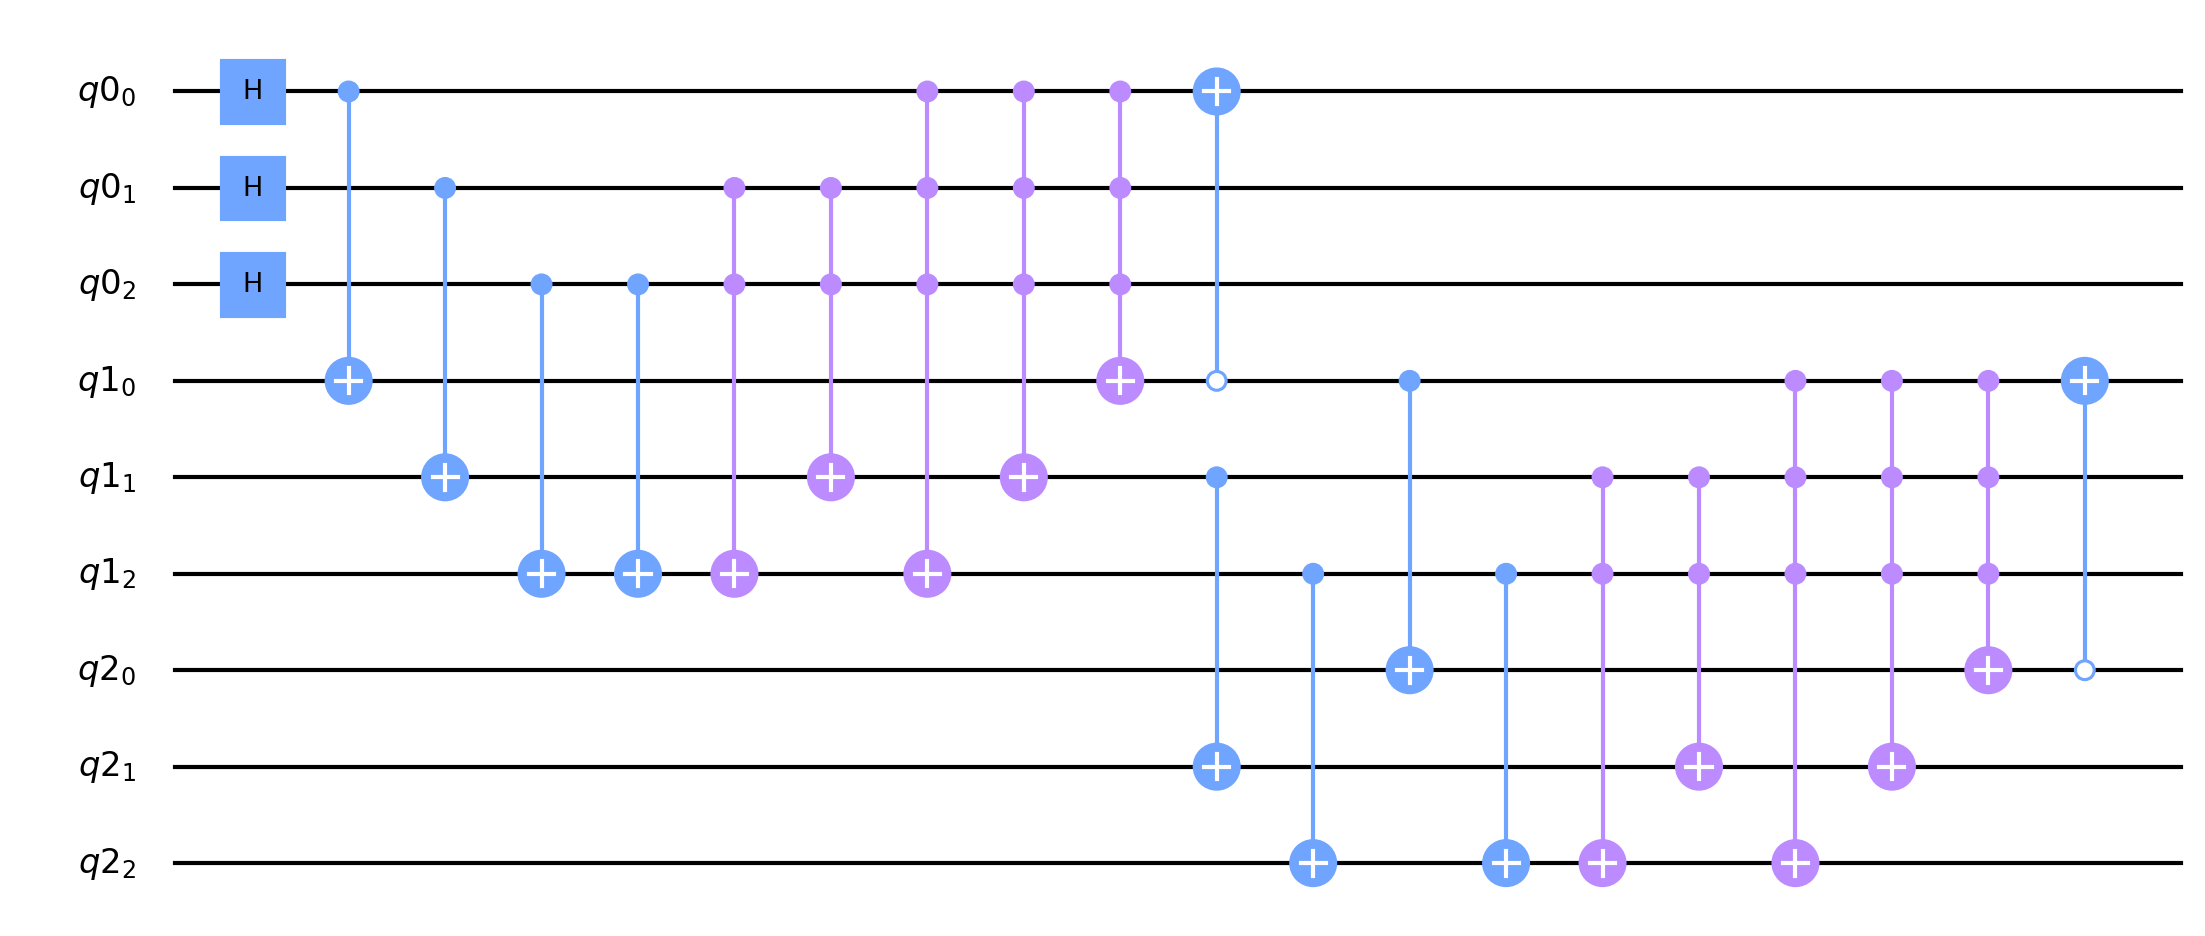
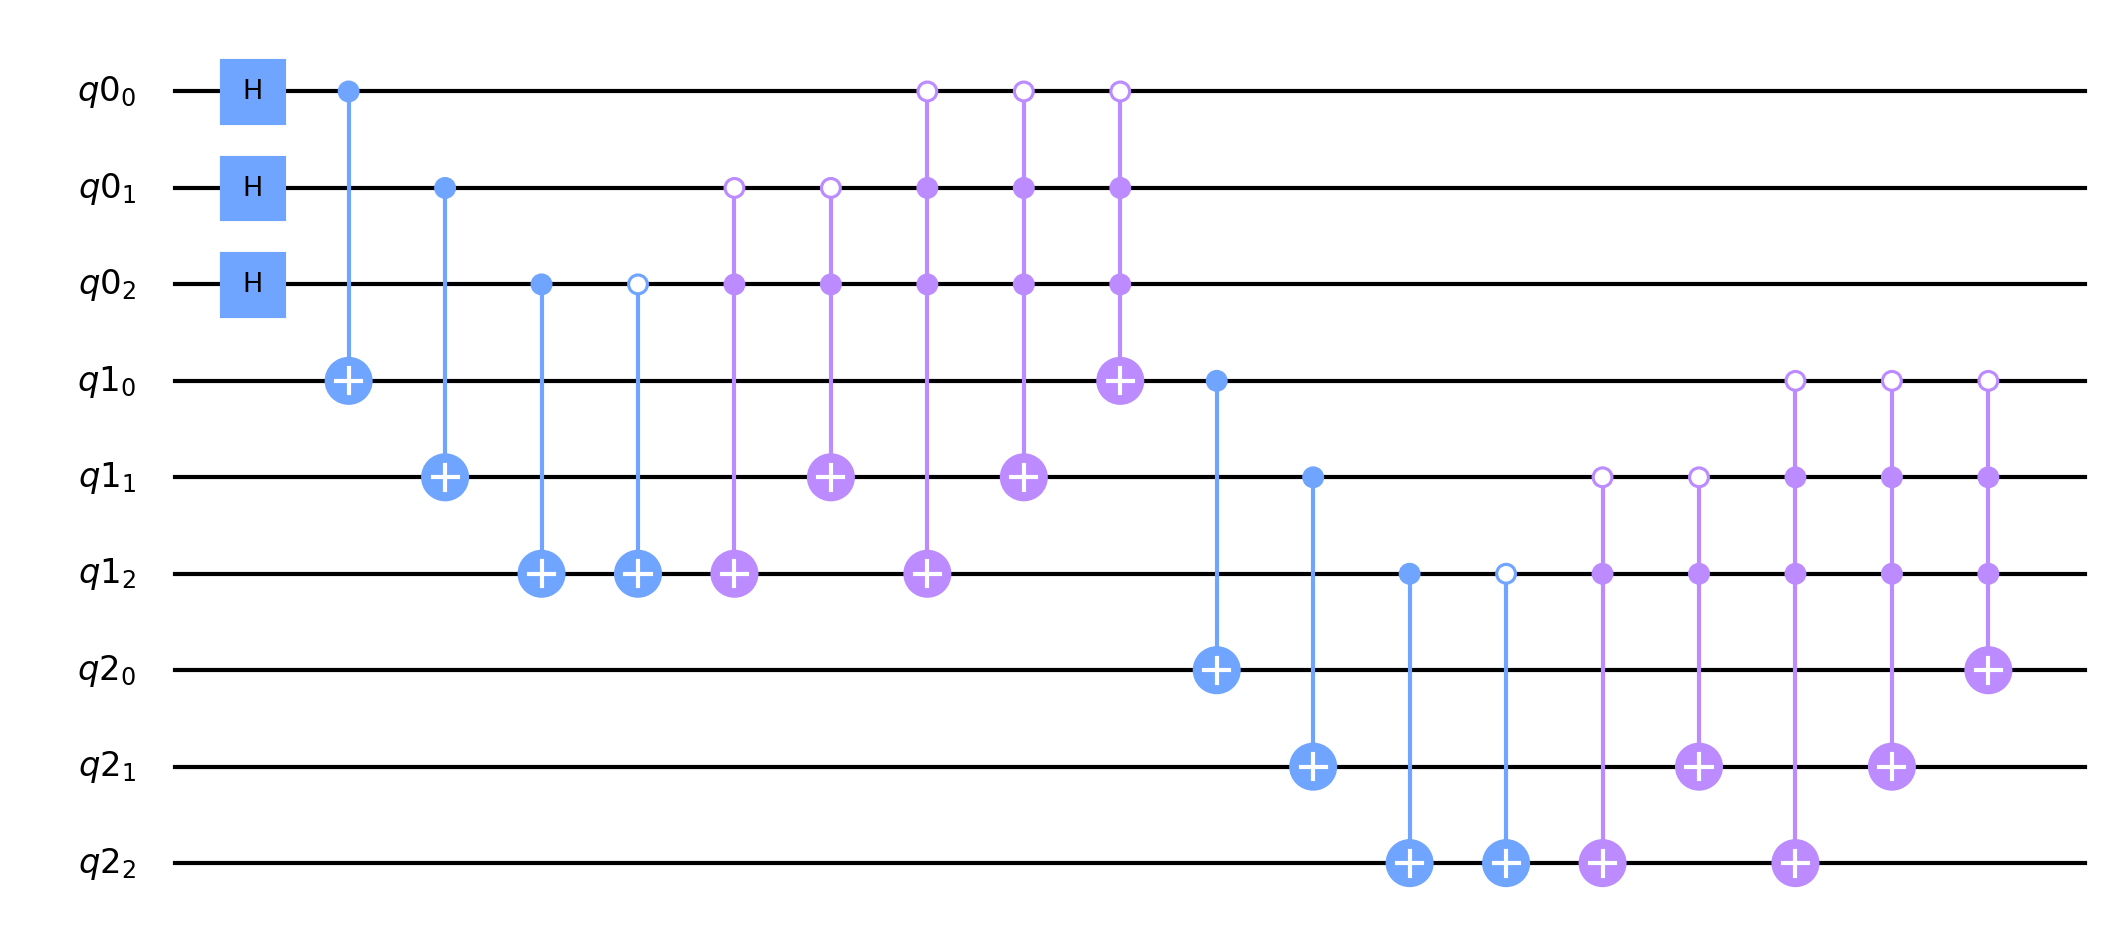
initial state appears to work

diff --git a/src/pattern_match.py b/src/pattern_match.py
@@ -52,11 +52,13 @@ qr_p1 {  -----------------------
 '''
 qubits = dict()
 
-def _build_control_state(upper_qubit_index, s):
-    control_state = '0'
-    for i in range(upper_qubit_index + 1, s):
+def _build_control_state(num_control_qubits):
+    control_state = ''
+    for i in range(num_control_qubits - 1):
         control_state = control_state + '1'
 
+    # print(f"number of control qubits: {len(previous_qubits[upper_qubit_index : s])}")
+    control_state = control_state + '0'
     print(control_state)
     return control_state
 
@@ -74,9 +76,18 @@ def add_pattern_char_state(qc, i, s):
 
     # Encode the order of the pattern char locations
     for upper_qubit_index in range(s - 1, -1, -1):
-        for num_qubits in range(s - 1, upper_qubit_index - 1, -1):
-            acx = XGate().control(ctrl_state = _build_control_state(upper_qubit_index, s) )
-            qc.append(acx, [ previous_qubits[upper_qubit_index : s], new_qubits[num_qubits] ])
+        for lower_qubit_index in range(s - 1, upper_qubit_index - 1, -1):
+            num_control_qubits = s - upper_qubit_index
+            print(f'num_control_qubits: {num_control_qubits}')
+            acx = XGate().control(num_ctrl_qubits = num_control_qubits, ctrl_state = _build_control_state(num_control_qubits) )
+            print(f"acx control qubits: {acx.num_ctrl_qubits}")
+            print(f'len(previous_qubits[upper_qubit_index : s]) = {len(previous_qubits[upper_qubit_index : s])}')
+            print(f'upper_qubit_index = {upper_qubit_index}')
+            # print(f"test qargs length {len([ previous_qubits[upper_qubit_index : s], new_qubits[lower_qubit_index] ])}")
+            acx_qargs = list(previous_qubits[upper_qubit_index : s])
+            acx_qargs.append(new_qubits[lower_qubit_index])
+            print(f"test len: {acx_qargs}")
+            qc.append(acx, qargs = acx_qargs)
             # qc.mcx(previous_qubits[j : s], new_qubits[k])
 
     qc.barrier()
